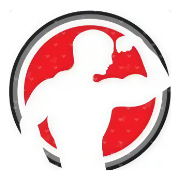
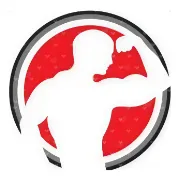
Optimize images: convert to WebP, resize to display dimensions
97%+ size reduction across all images. Dict and component refs updated.
Favicon/manifest PNGs preserved.

diff --git a/app/[lang]/_components/reviews.tsx b/app/[lang]/_components/reviews.tsx
@@ -56,10 +56,10 @@ export default function Reviews({ dict }: Props) {
   }, []);
 
   const reviews = [
-    { text: dict.review1Text, author: dict.review1Author, date: dict.review1Date, img: "/reviews/review1.jpg" },
-    { text: dict.review2Text, author: dict.review2Author, date: dict.review2Date, img: "/reviews/review2.jpg" },
-    { text: dict.review3Text, author: dict.review3Author, date: dict.review3Date, img: "/reviews/review3.jpg" },
-    { text: dict.review4Text, author: dict.review4Author, date: dict.review4Date, img: "/reviews/review4.jpg" },
+    { text: dict.review1Text, author: dict.review1Author, date: dict.review1Date, img: "/reviews/review1.webp" },
+    { text: dict.review2Text, author: dict.review2Author, date: dict.review2Date, img: "/reviews/review2.webp" },
+    { text: dict.review3Text, author: dict.review3Author, date: dict.review3Date, img: "/reviews/review3.webp" },
+    { text: dict.review4Text, author: dict.review4Author, date: dict.review4Date, img: "/reviews/review4.webp" },
   ];
 
   return (

diff --git a/app/[lang]/_components/facilities.tsx b/app/[lang]/_components/facilities.tsx
@@ -26,12 +26,12 @@ type Props = {
 };
 
 const zoneImages = [
-  "/facilities/musculacao.jpg",
-  "/facilities/crosstraining.jpg",
-  "/facilities/combate.jpg",
-  "/facilities/danca.jpg",
-  "/facilities/studios.jpg",
-  "/facilities/indoor.jpg",
+  "/facilities/musculacao.webp",
+  "/facilities/crosstraining.webp",
+  "/facilities/combate.webp",
+  "/facilities/danca.webp",
+  "/facilities/studios.webp",
+  "/facilities/indoor.webp",
 ];
 
 const zoneIcons = ["⚡", "🔥", "🥊", "💃", "🏋", "🏃"];

diff --git a/app/[lang]/_components/modalities.tsx b/app/[lang]/_components/modalities.tsx
@@ -22,10 +22,10 @@ type Props = {
 };
 
 const categoryImages = [
-  "/facilities/musculacao.jpg",
-  "/facilities/crosstraining.jpg",
-  "/facilities/combate.jpg",
-  "/facilities/danca.jpg",
+  "/facilities/musculacao.webp",
+  "/facilities/crosstraining.webp",
+  "/facilities/combate.webp",
+  "/facilities/danca.webp",
 ];
 
 export default function Modalities({ dict }: Props) {

diff --git a/app/[lang]/_components/ko-team.tsx b/app/[lang]/_components/ko-team.tsx
@@ -93,7 +93,7 @@ export default function KOTeam({ dict }: Props) {
         style={{ inset: "-15% 0", willChange: "transform" }}
       >
         <Image
-          src="/koteam/koteam.jpg"
+          src="/koteam/koteam.webp"
           alt="KO Team — combat sports training"
           fill
           sizes="100vw"

diff --git a/app/[lang]/_components/about.tsx b/app/[lang]/_components/about.tsx
@@ -79,7 +79,7 @@ export default function About({ dict }: Props) {
         style={{ inset: "-5% 0", willChange: "transform" }}
       >
         <Image
-          src="/about/about.jpg"
+          src="/about/about.webp"
           alt="Mr. Big Evolution — gym floor"
           fill
           sizes="100vw"

diff --git a/app/[lang]/_components/hero-content.tsx b/app/[lang]/_components/hero-content.tsx
@@ -57,7 +57,7 @@ export default function HeroContent({ dict }: Props) {
         style={{ inset: "-20% 0", willChange: "transform" }}
       >
         <Image
-          src="/hero/hero.jpg"
+          src="/hero/hero.webp"
           alt="Mr. Big Evolution gym floor"
           fill
           priority
